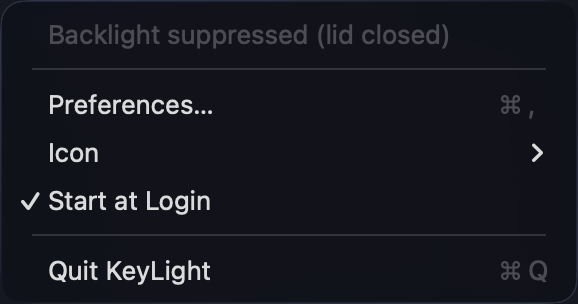
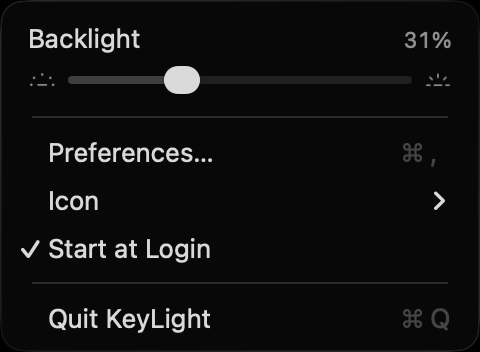
content: KeyLight menu capture with its new brightness slider
Claude-Session: https://claude.ai/code/session_01EwCsxHNg9UuBw5TRqP2eBv

diff --git a/site/index.html b/site/index.html
@@ -69,7 +69,7 @@
   <div class="grid">
     <a class="card" href="https://github.com/nicholaspsmith/keylight-menubar">
       <div class="card-top"><img class="mascot" src="img/mascots/keylight.png" alt="" width="72" height="72"><div><h3>KeyLight</h3><p class="chips"><span>StatusItemKit</span><span>HotkeyKit</span></p></div></div>
-      <p>Remaps Ctrl + the brightness keys to keyboard-backlight up and down, with the current level shown in the menu bar. A drop-in replacement for using BetterTouchTool for just that.</p>
+      <p>Remaps Ctrl + the brightness keys to keyboard-backlight up and down, with the current level shown in the menu bar and a slider in the menu. A drop-in replacement for using BetterTouchTool for just that.</p>
       <div class="shot"><img src="img/menus/keylight.png" alt="The KeyLight menu" loading="lazy"></div>
     </a>
 
